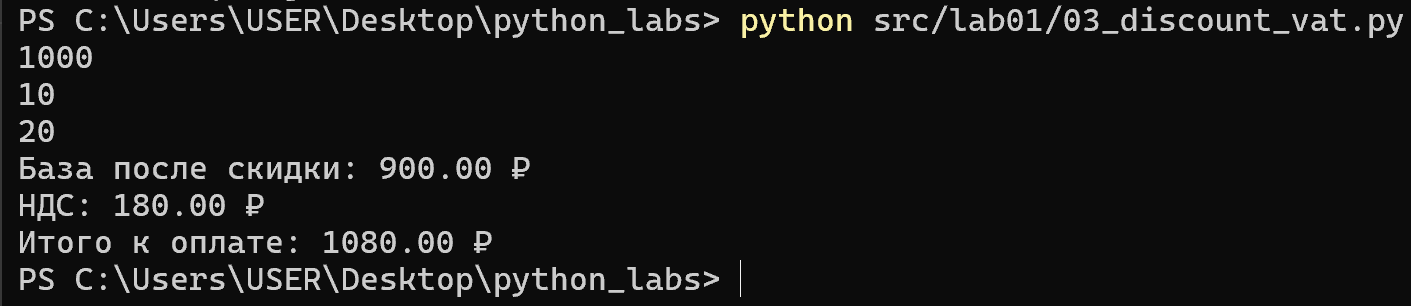
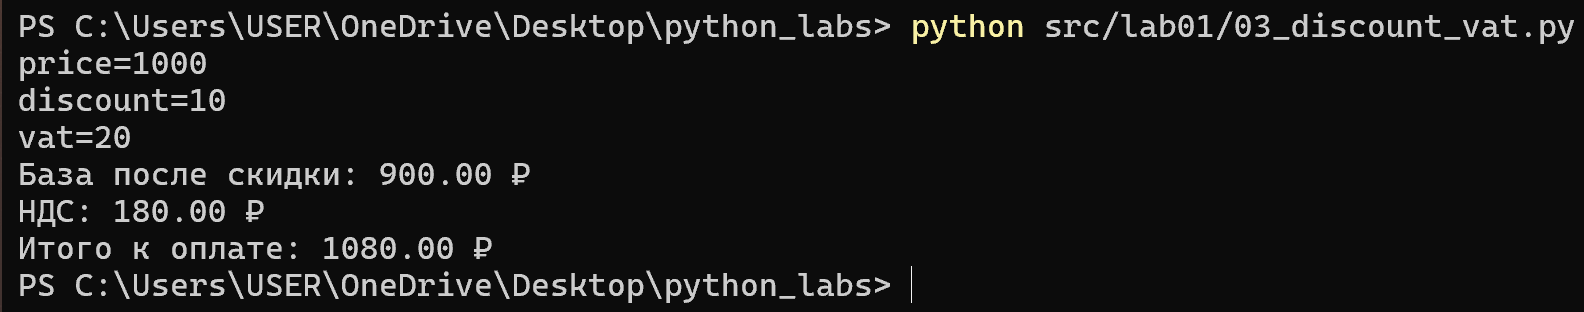
Сдача первой лабы: Новый новые скрины

diff --git a/src/lab01/03_discount_vat.py b/src/lab01/03_discount_vat.py
@@ -1,6 +1,6 @@
-price = float(input())
-discount = float(input())
-vat = float(input())
+price = float(input('price='))
+discount = float(input('discount='))
+vat = float(input('vat='))
 base = price * (1 - discount/100)
 vat_amount = base * (vat/100)
 total = base + vat_amount
